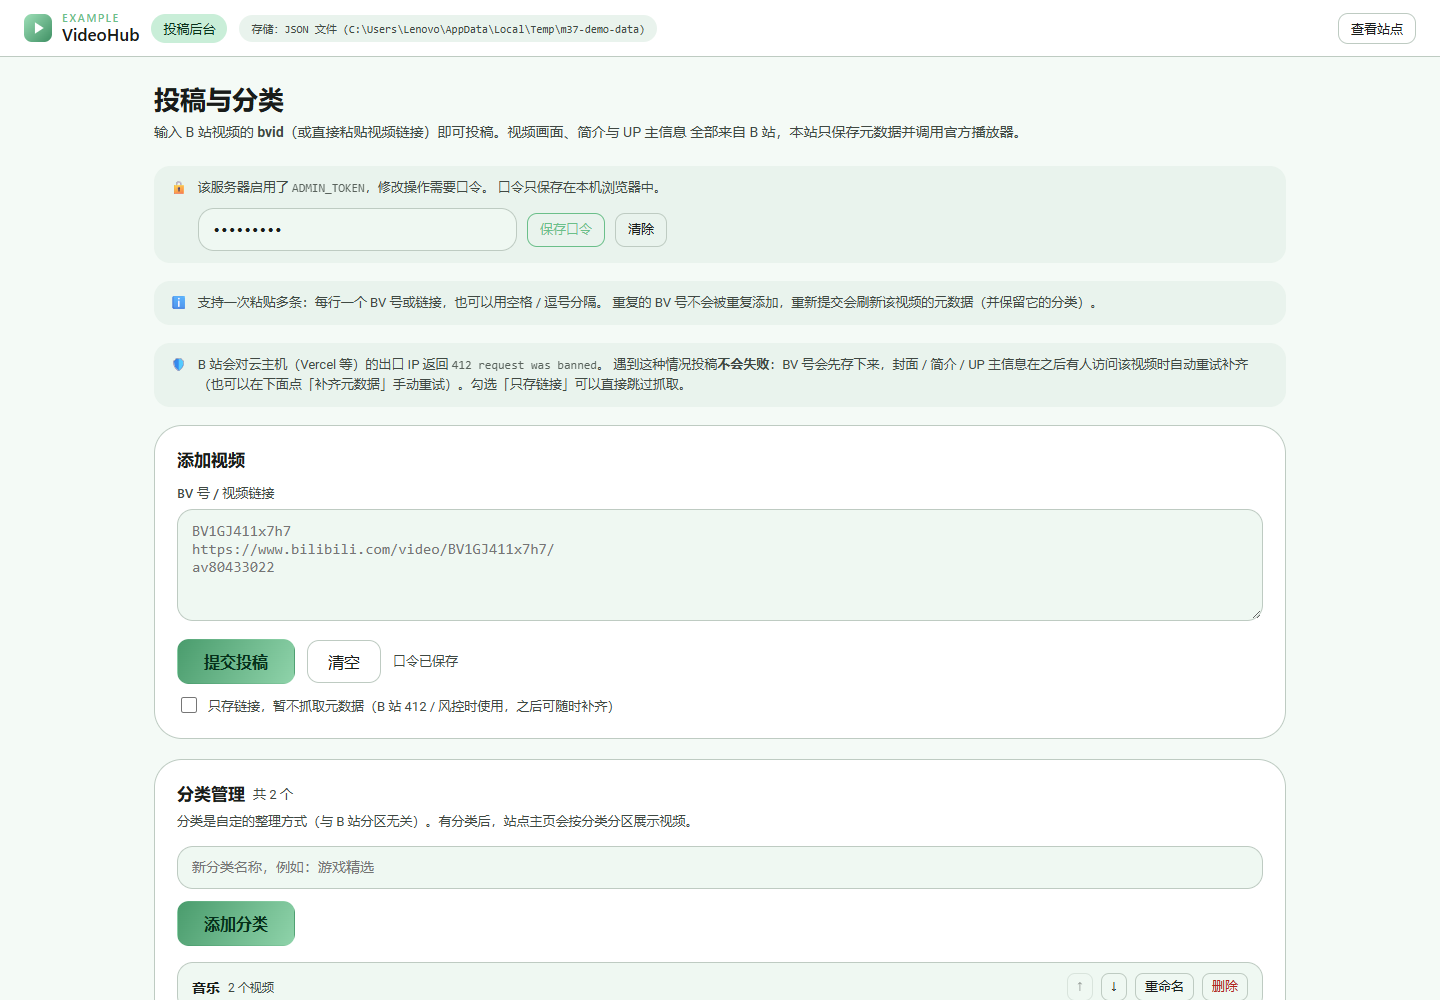
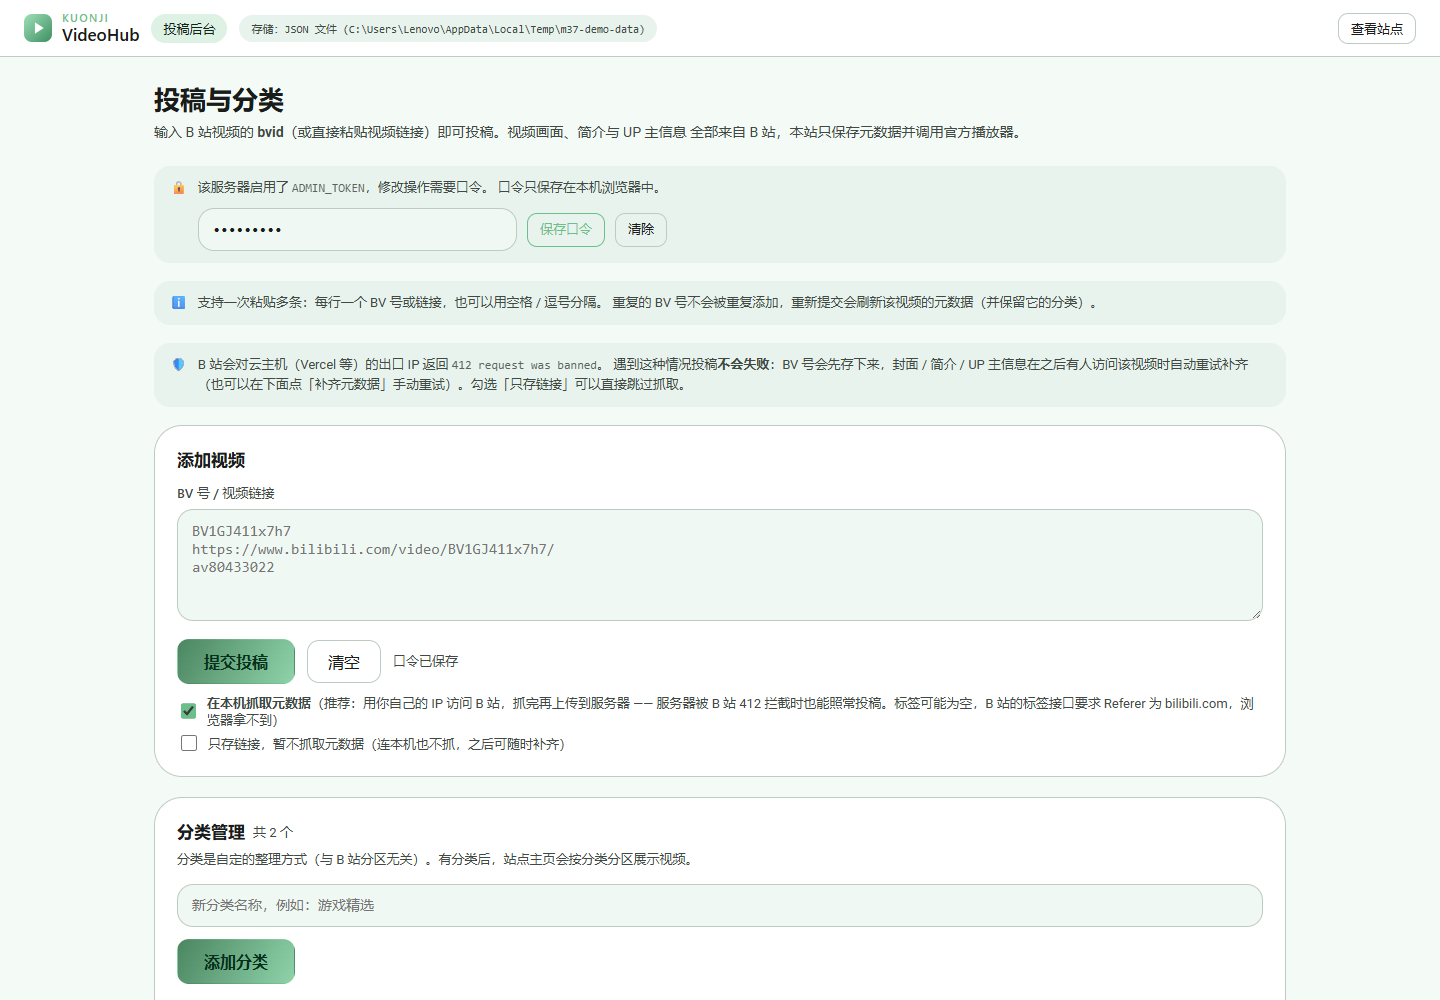
chore: ship the example brand as "Kuonji" (was "Example")
The repository's example identity now matches the project name: config.json ships
brandOwner "Kuonji" / siteName "Kuonji VideoHub", and the same fallback name is
used by the three code paths that read it (server/config.js, vite.config.js,
src/constants.js) plus the static defaults in public/admin.html.

TUTORIAL.md and the five docs/images screenshots were regenerated with that
brand (screenshots taken against the shipped examples/ demo library, so they
still contain no personal data). A local override via M37_CONFIG (e.g.
my-config.local) keeps using its own name — nothing changes for a personal
deployment.

Changed region(s): [[0.125, 0.682, 0.875, 0.992], [0.75, 0.961, 0.875, 0.992], [0.0312, 0.0, 0.0938, 0.031]]

diff --git a/public/admin.html b/public/admin.html
@@ -613,7 +613,7 @@
           <path d="M12.5 9.5l10 6.5-10 6.5z" fill="#fff" />
         </svg>
         <span class="brand-text">
-          <span class="brand-owner" id="brand-owner">Example</span>
+          <span class="brand-owner" id="brand-owner">Kuonji</span>
           <span class="brand-product" id="brand-product">VideoHub</span>
         </span>
       </a>
@@ -708,7 +708,7 @@
     </main>
 
     <footer class="foot">
-      <span id="foot-brand">Example VideoHub</span> · 投稿后台 · 存储：<code id="datafile">…</code>
+      <span id="foot-brand">Kuonji VideoHub</span> · 投稿后台 · 存储：<code id="datafile">…</code>
     </footer>
 
     <script>

diff --git a/src/constants.js b/src/constants.js
@@ -5,9 +5,9 @@
 const injected = typeof __SITE_CONFIG__ !== 'undefined' ? __SITE_CONFIG__ : {}
 
 const FALLBACK = {
-  brandOwner: 'Example',
+  brandOwner: 'Kuonji',
   brandProduct: 'VideoHub',
-  siteName: 'Example VideoHub',
+  siteName: 'Kuonji VideoHub',
   tagline: '基于 Material Design 3 构建的视频分享站点',
   footerNote: '视频与信息来自哔哩哔哩 · 基于 Material Design 3 构建',
   repoUrl: '',

diff --git a/vite.config.js b/vite.config.js
@@ -23,7 +23,7 @@ function resolveSiteConfig(env) {
     console.warn(`[vite] 未读到 ${configPath.pathname}，使用默认站点名`)
   }
   const merged = {
-    brandOwner: 'Example',
+    brandOwner: 'Kuonji',
     brandProduct: 'VideoHub',
     tagline: '基于 Material Design 3 构建的视频分享站点',
     footerNote: '视频与信息来自哔哩哔哩 · 基于 Material Design 3 构建',

diff --git a/server/config.js b/server/config.js
@@ -16,7 +16,7 @@ import { fileURLToPath } from 'node:url'
 const ROOT = resolve(dirname(fileURLToPath(import.meta.url)), '..')
 
 const DEFAULTS = {
-  brandOwner: 'Example',
+  brandOwner: 'Kuonji',
   brandProduct: 'VideoHub',
   siteName: '',
   tagline: '基于 Material Design 3 构建的视频分享站点',

diff --git a/TUTORIAL.md b/TUTORIAL.md
@@ -1,4 +1,4 @@
-# Example VideoHub · 介绍 · 教程 · 示例
+# Kuonji VideoHub · 介绍 · 教程 · 示例
 
 > 一个用 **Material Design 3** 做的视频站：视频全部来自 **哔哩哔哩**，
 > 后台输入 **bvid** 即可投稿，画面与弹幕走 B 站官方内嵌播放器，简介 / UP 主 / 数据 / 评论都来自 B 站。
@@ -123,9 +123,9 @@ npm run serve               # = npm run build && node server/index.js
 
 ```json
 {
-  "brandOwner": "Example",
+  "brandOwner": "Kuonji",
   "brandProduct": "VideoHub",
-  "siteName": "Example VideoHub",
+  "siteName": "Kuonji VideoHub",
   "tagline": "基于 Material Design 3 构建的视频分享站点",
   "footerNote": "视频与信息来自哔哩哔哩 · 基于 Material Design 3 构建",
   "repoUrl": "",
@@ -632,4 +632,4 @@ ADMIN_TOKEN=换成一个只有你知道的随机串
 
 ---
 
-<sub>Example · VideoHub · 基于 Material Design 3 构建 · 视频与信息来自哔哩哔哩</sub>
+<sub>Kuonji · VideoHub · 基于 Material Design 3 构建 · 视频与信息来自哔哩哔哩</sub>
